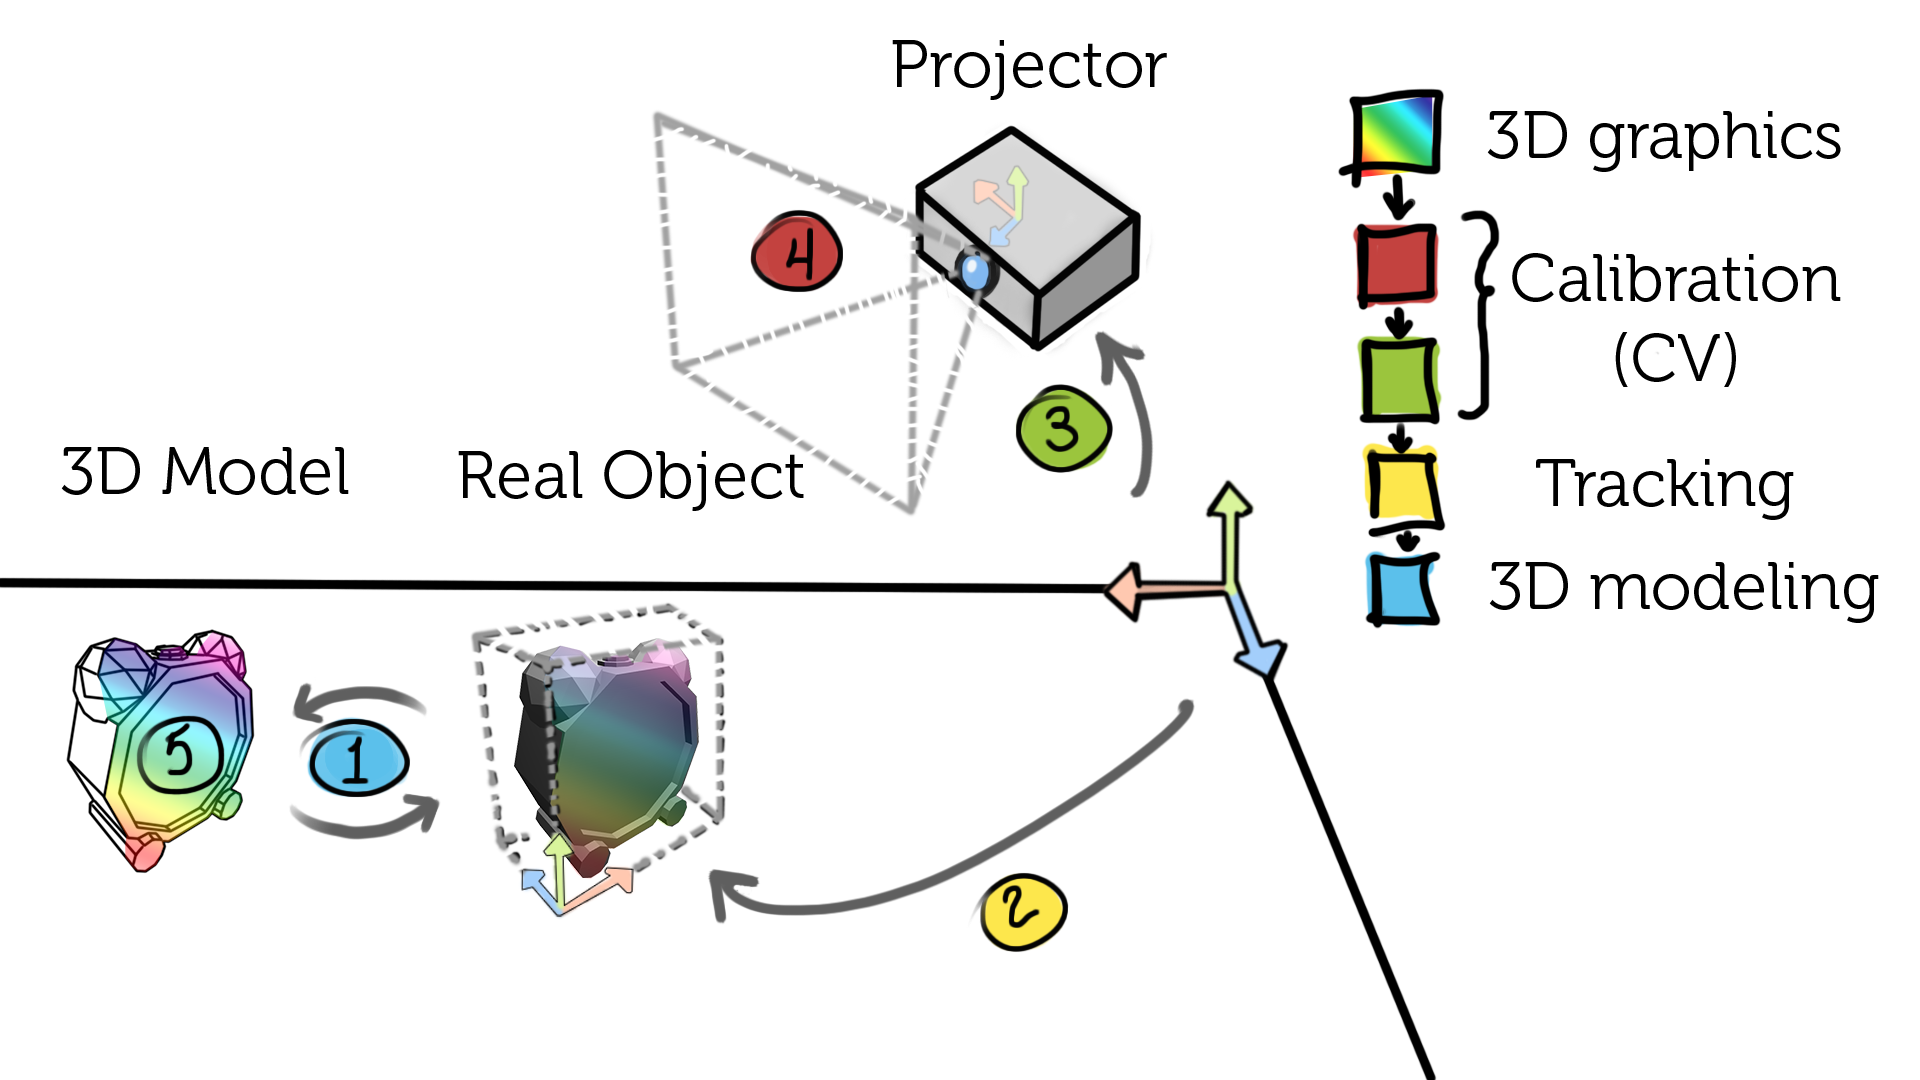
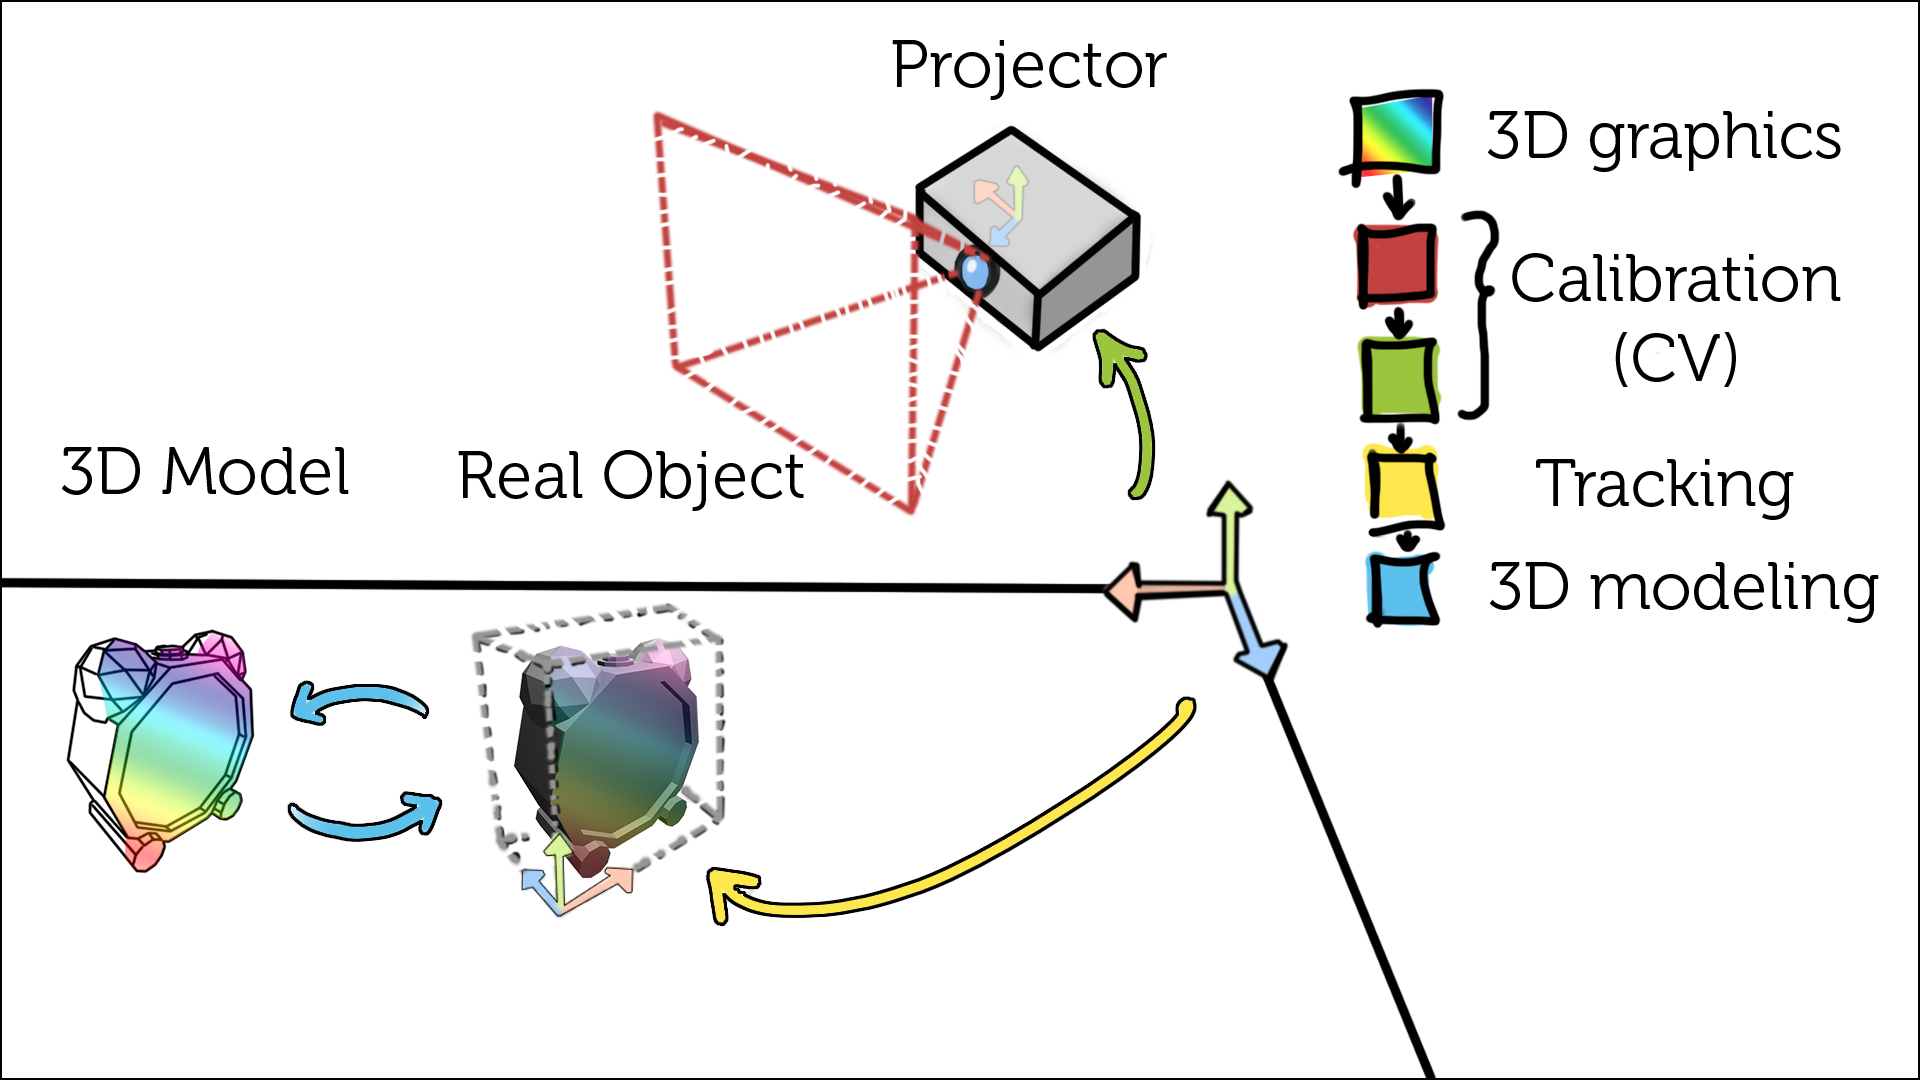
Simplifying the SAR pipeline figure some more

diff --git a/index.html b/index.html
@@ -545,23 +545,20 @@ Does pointing still works without a screen?
 
 <h3 id="teegi-disco">Teegi Disco</h3>
 </section></section>
-<section><section id="going-further" class="titleslide slide level1" data-background="./img/tobe-tablet-window.jpg"><h1 style="color: #eee;">Going Further</h1></section><section class="slide level2">
+<section><section id="going-further" class="titleslide slide level1" style="color: #eee;" data-background="./img/tobe-tablet-window.jpg"><h1>Going Further</h1></section><section class="slide level2">
 
 <h3 id="inner-mirror">Inner Mirror</h3>
 <p><img src="./img/inner-beauty.png" height="500px"></p>
 </section><section class="slide level2">
 
-<h3 id="representations">Representations</h3>
+<h3 id="building-your-own-mirror">Building your own mirror</h3>
 </section><section class="slide level2">
 
-<h3 id="building-your-own-mirror">Building your own mirror</h3>
-</section><section id="section-27" class="slide level2" data-background-video="./img/tobe.mp4">
+<h3 id="section-27"></h3>
+<p><img src="./img/tobe-pipeline.png" height="600px"></p>
+</section><section id="section-28" class="slide level2" data-background-video="./img/tobe.mp4">
 <h1><!-- Tobe --></h1>
 <!-- <video controls class="stretch" src="./img/tobe.mp4"></video> -->
-</section><section class="slide level2">
-
-<h3 id="section-28"></h3>
-<p><img src="./img/tobe-pipeline.png" height="600px"></p>
 </section><section class="slide level2">
 
 <h3 id="metrics">Metrics</h3>
